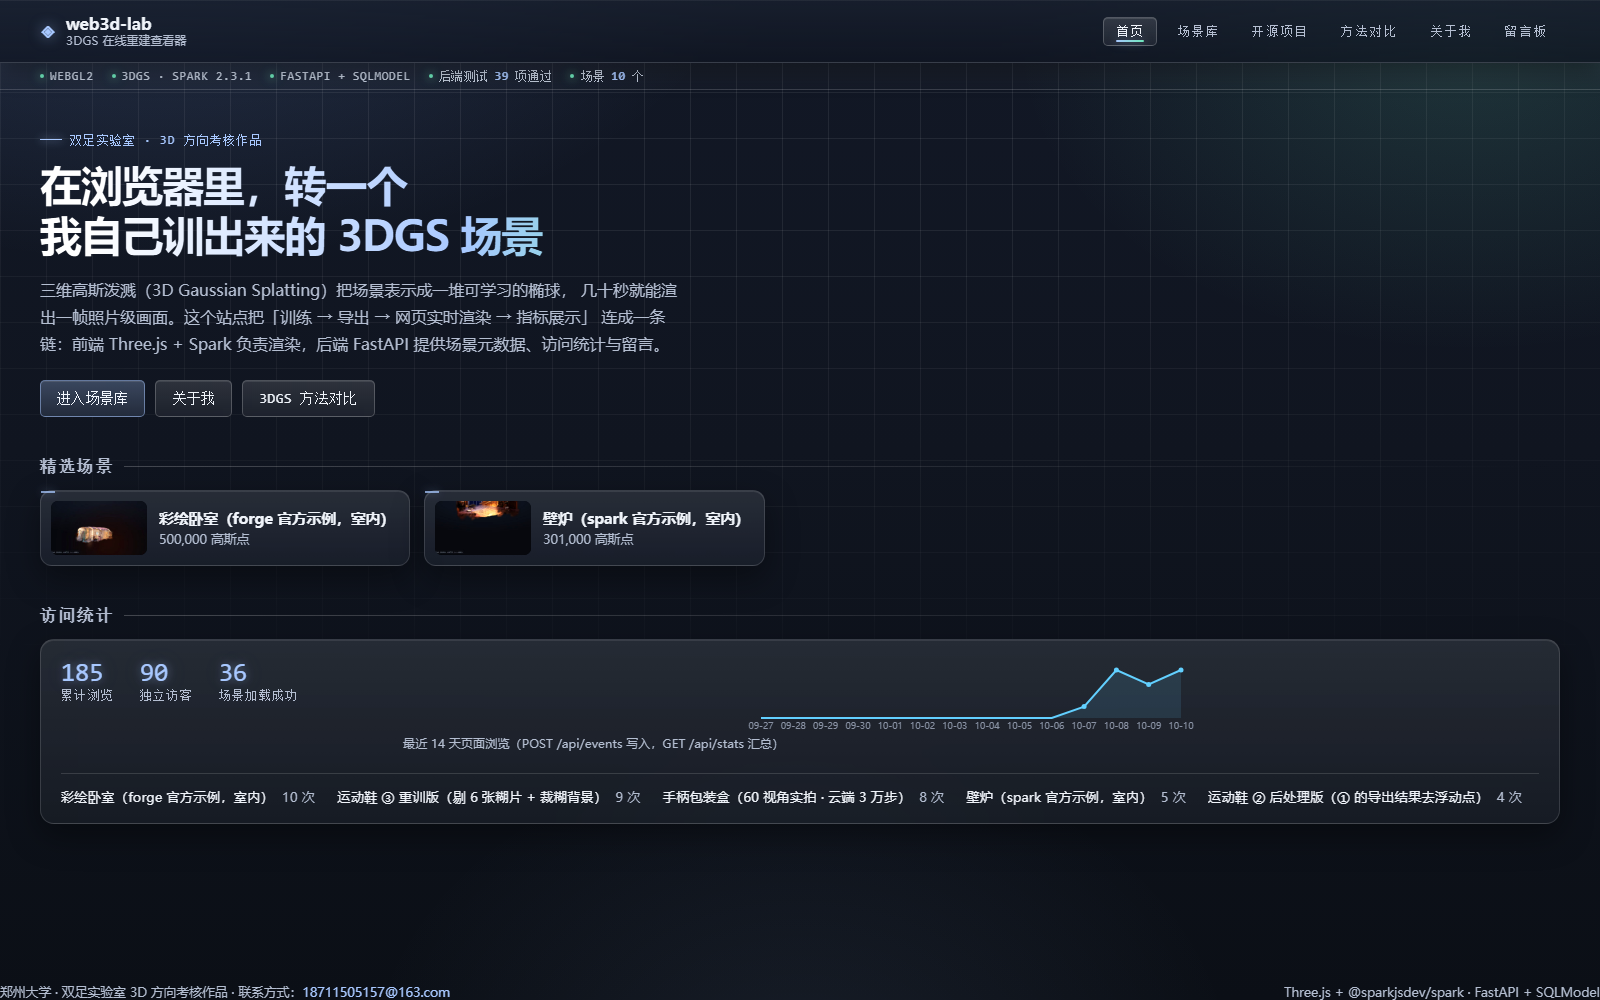
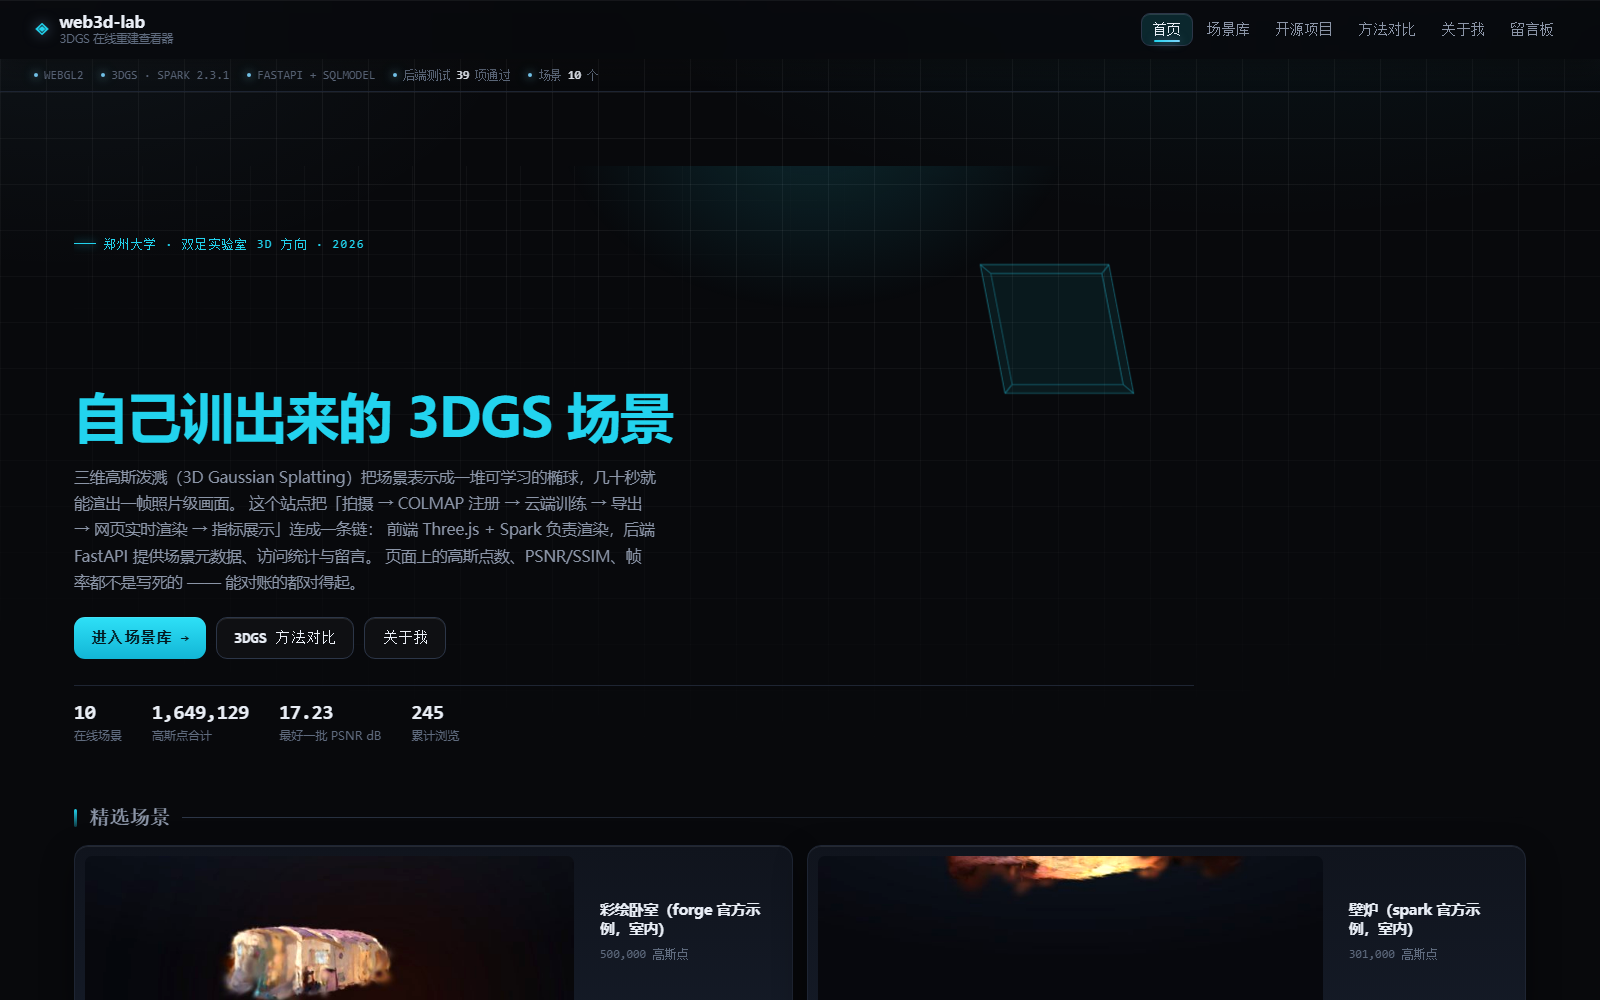
docs+build: README 截图换新皮肤；给构建脚本加「空壳」防线
README 两张线上实拍（01-home / 02-scenes）还是旧蓝紫配色，用 scripts/refresh-readme-shots.sh 重新抓了。

防线（这次是血的）：
- frontend/scripts/build-for-edgeone.sh：删不掉 dist-edgeone 就直接报错退出（此前本地 http.server 占着目录 → rm 静默失败 → 带着旧文件构建 → 部署空壳 → 整站 404），并新增产物自检（index.html 必须存在、assets 必须非空）
- scripts/build-cloud-bundle.sh：打包前校验 frontend/dist-edgeone/index.html 与 assets 非空，缺就直接拒包
- skin.css：窄屏（≤700px）给对比表加常驻提示「↔ 表格可左右滑动」（表格本身 1080px 靠容器内滚动，实测整页无溢出，但手机上没提示根本不知道能滑）

diff --git a/frontend/src/skin.css b/frontend/src/skin.css
@@ -489,6 +489,29 @@ a:hover { color: var(--accent); }
   .hero h1 .w, .hero::after { opacity: 1 !important; }
 }
 
+/* ── 窄屏：对比表本身宽 1080px，靠 .table-wrap 内部横向滚动 ────────────────
+   实测：390px 下整页 scrollWidth=390、overflow=0（表格没有撑宽页面），
+   但「可以横向滑」这件事手机上没有任何提示 —— 给一个贴在左侧的常驻小标签
+   （position: sticky 让它始终可见，不会随表格滑走）。 */
+@media (max-width: 700px) {
+  .table-wrap::after {
+    content: "↔ 表格可左右滑动";
+    position: sticky;
+    left: 0;
+    display: block;
+    width: max-content;
+    margin: 8px 0 8px 8px;
+    padding: 3px 9px;
+    border: 1px solid var(--accent-line);
+    border-radius: 999px;
+    background: rgba(34, 211, 238, 0.10);
+    color: var(--accent);
+    font-family: var(--mono);
+    font-size: 11px;
+    letter-spacing: 0.04em;
+  }
+}
+
 /* ── 窄屏（<820px）：关掉装饰性元素，保证排版不被挤坏 ───────────────── */
 @media (max-width: 820px) {
   .hero-cube { display: none; }
